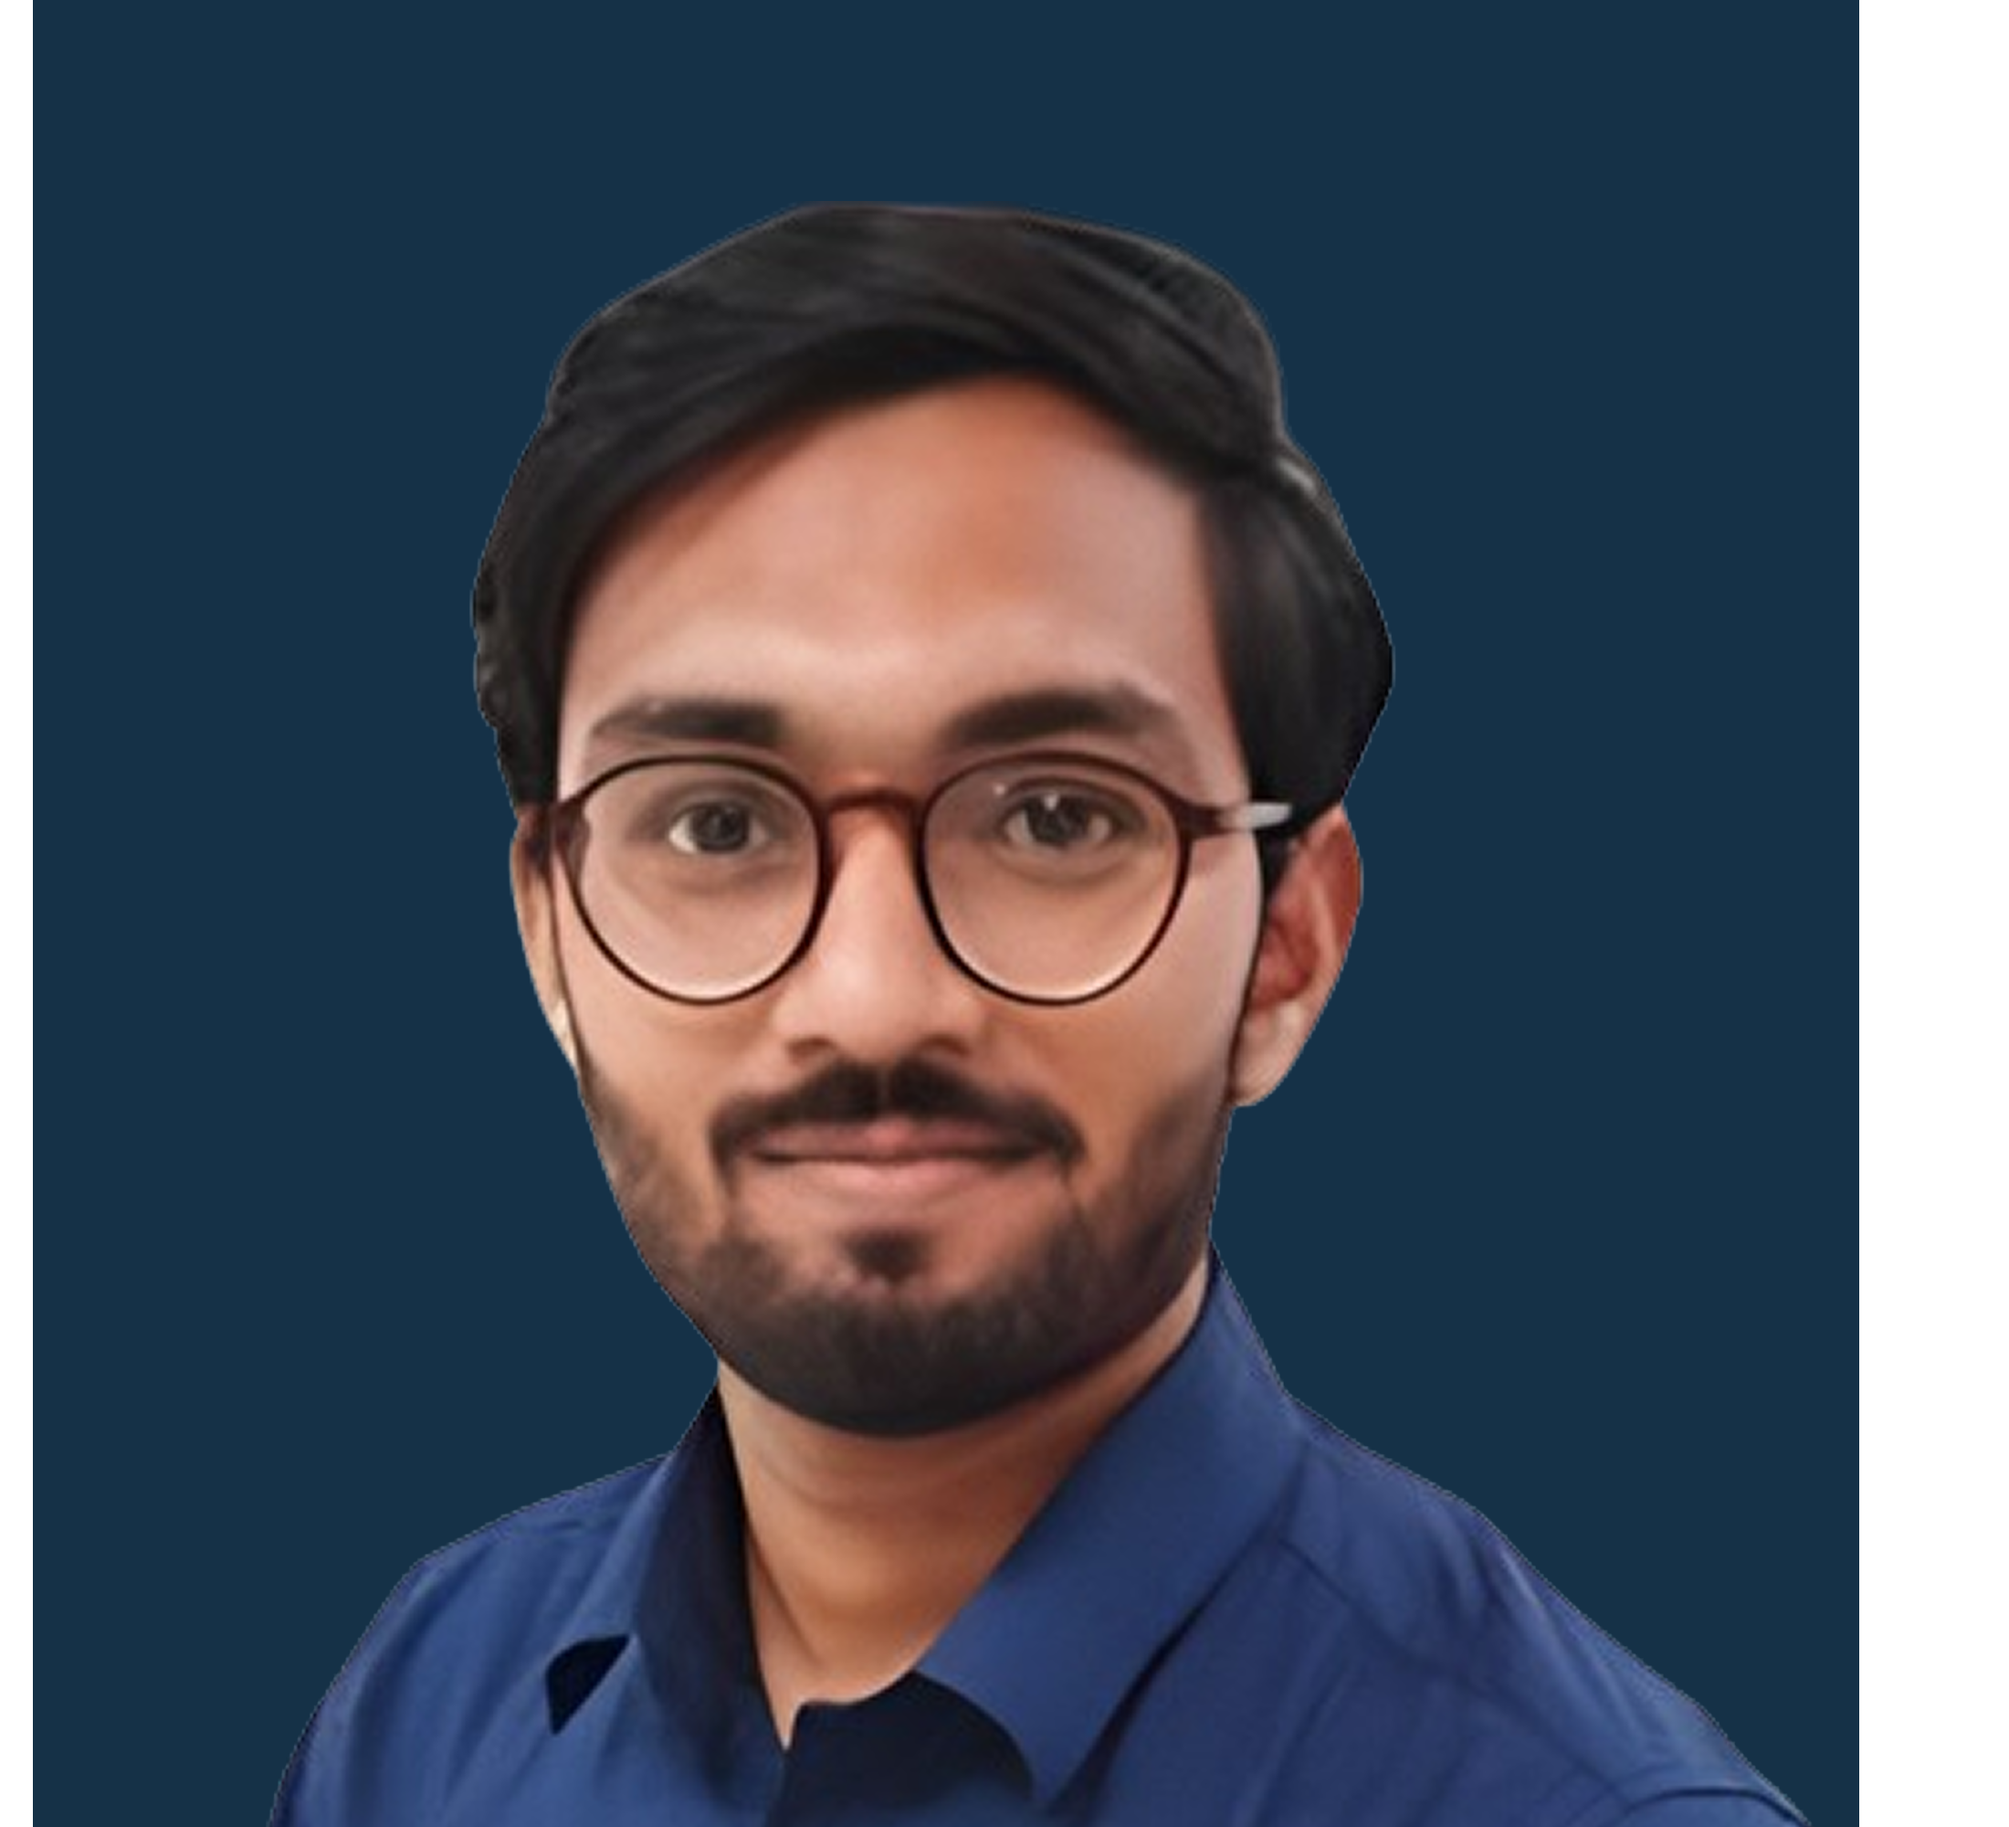
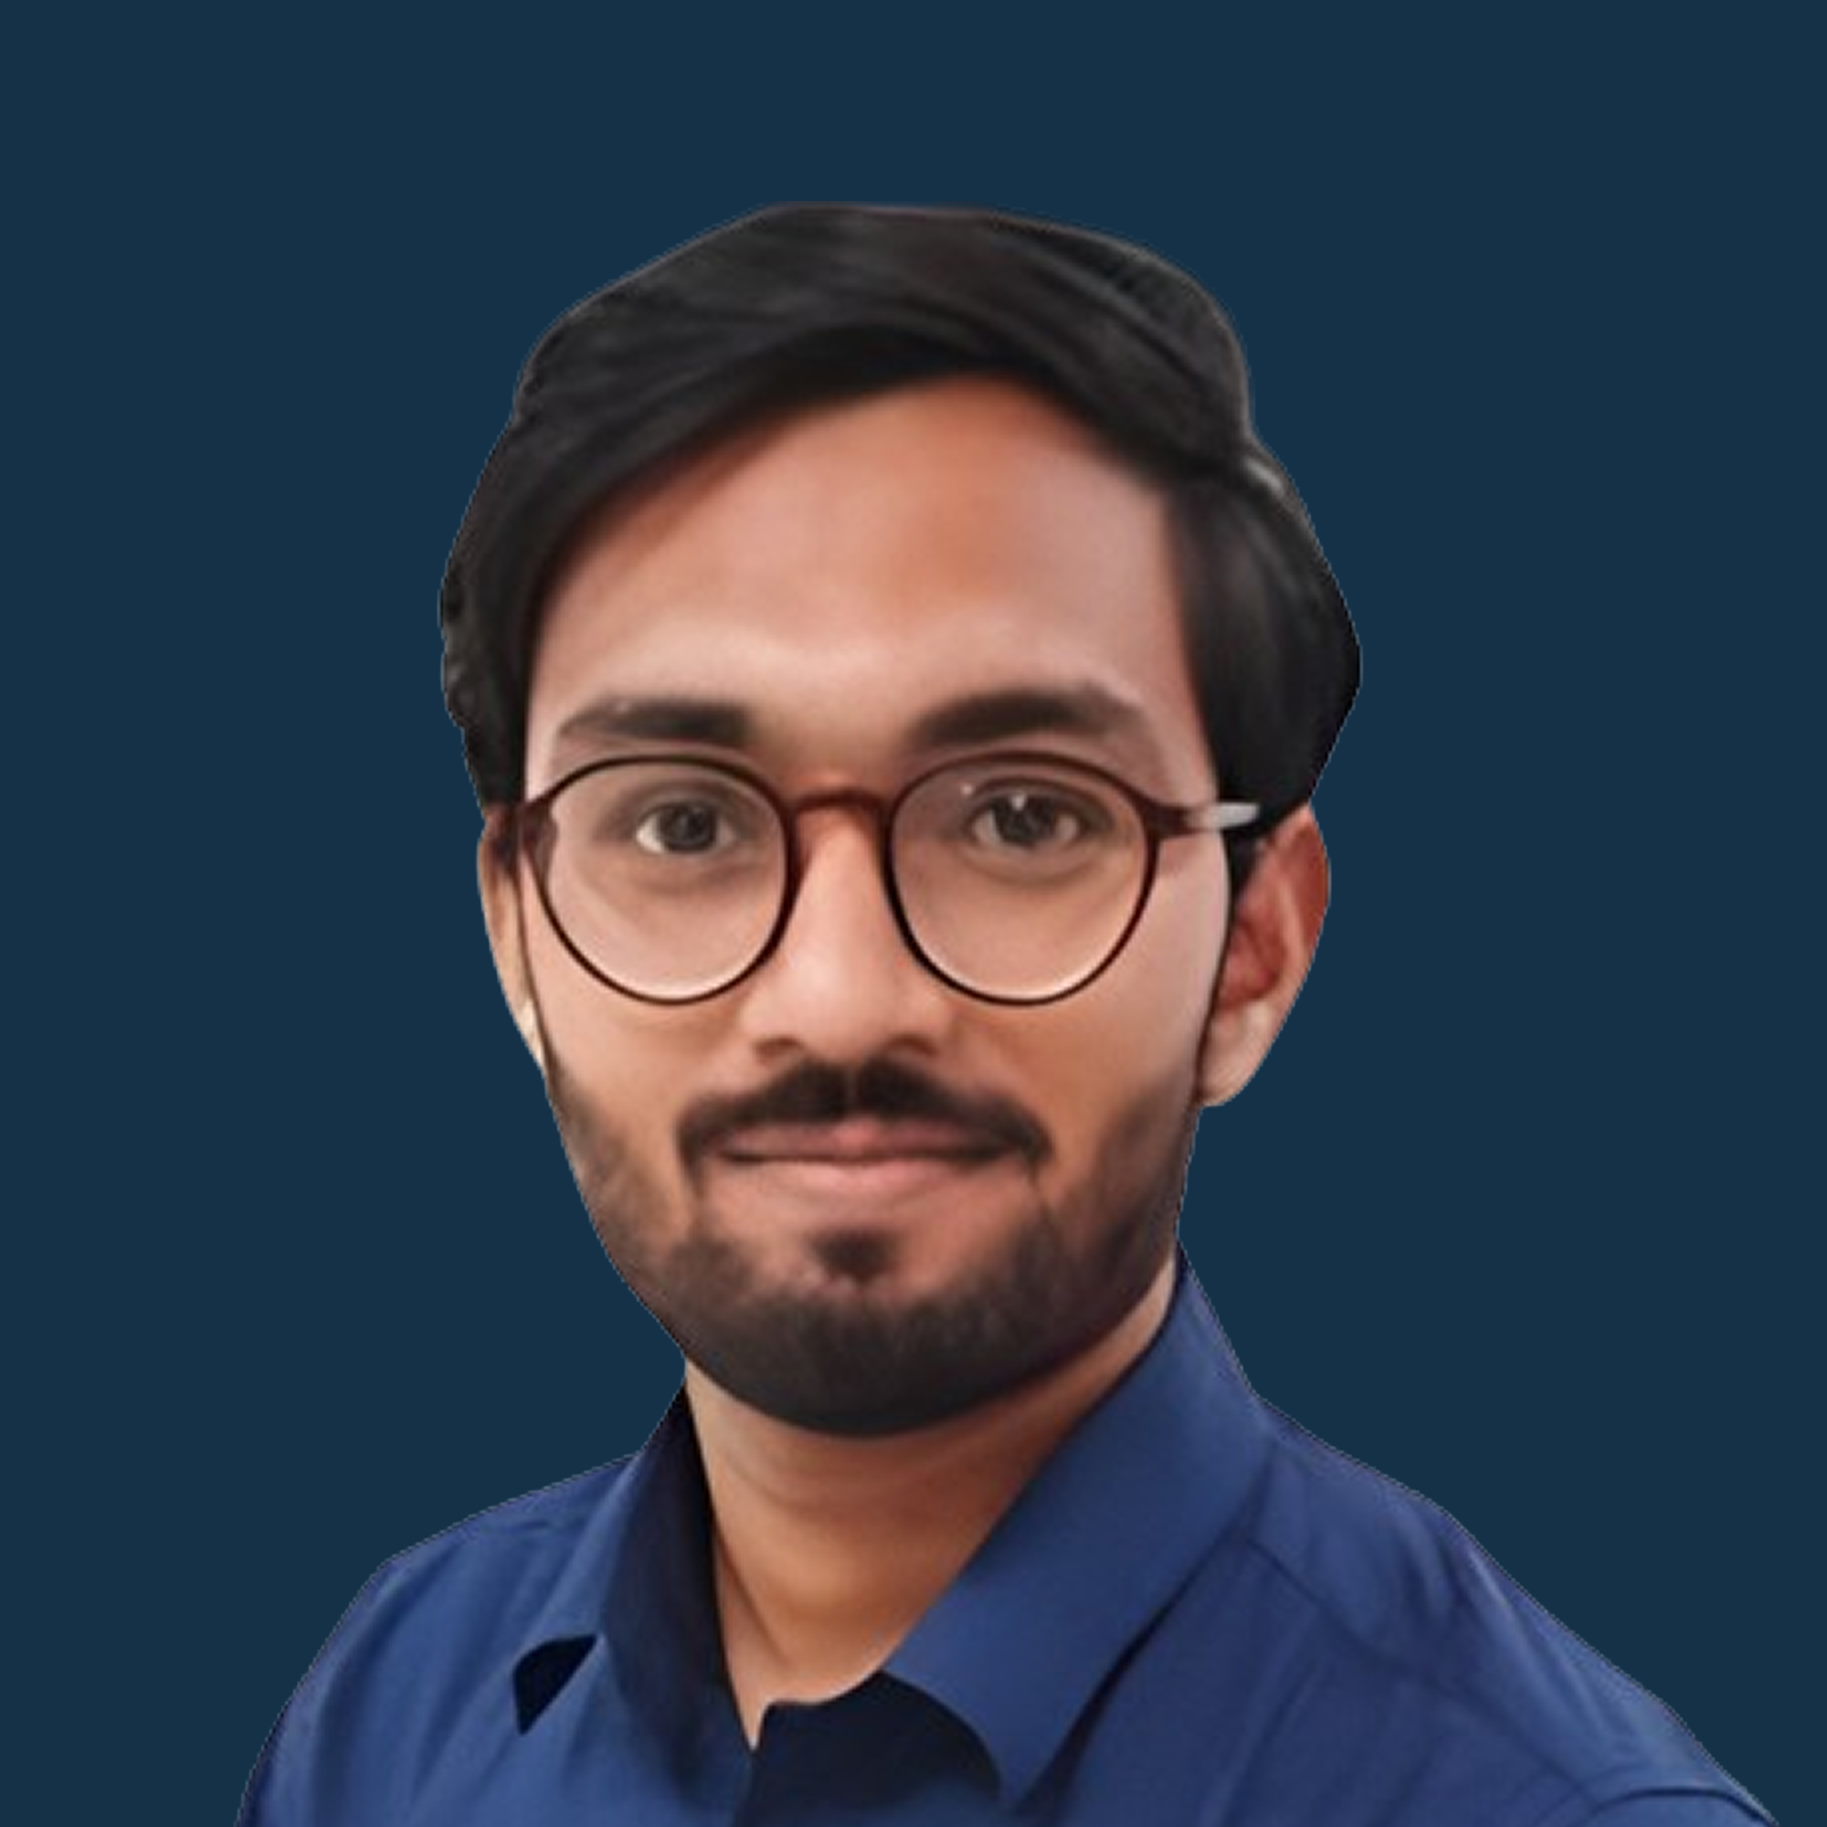
Changed Abid's photo

diff --git a/src/components/profile/profile-client.tsx b/src/components/profile/profile-client.tsx
@@ -9,20 +9,28 @@ import teamData from "@/data/team.json";
 interface PartnerItem {
   label: string;
   name: string;
+  logo: string;
+  link: string;
 }
 
 const PARTNERS: PartnerItem[] = [
   {
     label: "BROKER-DEALER",
     name: "Finalis",
+    logo: "/partners/finalis.png",
+    link: "https://www.finalis.com/about-us",
   },
   {
     label: "LEGAL REPRESENTATION",
-    name: "Hart Davidson Carson LLC",
+    name: "Hart David Carson LLP",
+    logo: "/partners/hart-david-carson.png",
+    link: "https://www.hartdavidcarson.com/",
   },
   {
     label: "ACCOUNTING TEAM",
     name: "Spark Accounting Services",
+    logo: "/partners/spark.png",
+    link: "https://www.sparkaccountingservices.com/about",
   },
 ];
 
@@ -115,7 +123,7 @@ function ProfileContent() {
                   isSeventh ? "md:col-start-2" : ""
                 }`}
               >
-                {/* Photo with hover effect and gold ring for Joey */}
+                {/* Photo with hover effect and gold ring */}
                 <div
                   onClick={() => handleSelectMember(item.slug)}
                   className="cursor-pointer"
@@ -129,12 +137,12 @@ function ProfileContent() {
                   aria-label={`View bio of ${item.title}`}
                 >
                   <div
-                    className={`relative w-32 h-32 sm:w-36 sm:h-36 md:w-40 md:h-40 rounded-full transition-all duration-300 group-hover:scale-105 ${
+                    className={`relative w-32 h-32 sm:w-36 sm:h-36 md:w-40 md:h-40 rounded-full transition-all duration-300 ease-out overflow-hidden ${
                       isJoey
-                        ? "p-1 border-[3px] border-[#c9a55a] shadow-[0_0_20px_rgba(201,165,90,0.35)]"
+                        ? "p-1 border-[3px] border-[#c9a55a] shadow-[0_0_20px_rgba(201,165,90,0.35)] group-hover:scale-105"
                         : isSelected
-                        ? "p-1 border-2 border-[#c9a55a]/70 shadow-lg"
-                        : "p-0.5 border border-white/10 group-hover:border-[#c9a55a]/60 shadow-md"
+                        ? "p-1 border-2 border-[#c9a55a] shadow-[0_0_15px_rgba(201,165,90,0.35)] group-hover:border-[3px] group-hover:border-[#dfbb72] group-hover:scale-105"
+                        : "p-0.5 border border-[#c9a55a]/75 shadow-md group-hover:border-[2.5px] group-hover:border-[#c9a55a] group-hover:shadow-[0_0_18px_rgba(201,165,90,0.45)] group-hover:scale-105"
                     }`}
                   >
                     <Image
@@ -142,7 +150,7 @@ function ProfileContent() {
                       alt={item.title}
                       width={160}
                       height={160}
-                      className="w-full h-full rounded-full object-cover bg-slate-900"
+                      className="w-full h-full rounded-full object-cover bg-slate-900 transition-transform duration-300 group-hover:scale-105"
                     />
                   </div>
                 </div>
@@ -196,7 +204,7 @@ function ProfileContent() {
                   className={`w-36 h-36 sm:w-44 sm:h-44 rounded-full overflow-hidden shadow-2xl ${
                     selectedMember.slug === "joey-bean"
                       ? "p-1 border-[3px] border-[#c9a55a] shadow-[0_0_25px_rgba(201,165,90,0.4)]"
-                      : "p-1 border border-white/20"
+                      : "p-1 border-2 border-[#c9a55a]/80 shadow-lg"
                   }`}
                 >
                   <Image
@@ -251,17 +259,41 @@ function ProfileContent() {
 
         <div className="grid grid-cols-1 md:grid-cols-3 gap-6">
           {PARTNERS.map((partner, idx) => (
-            <div
+            <a
               key={idx}
-              className="bg-[#161c24] border border-white/10 rounded-xl p-6 sm:p-7 shadow-lg hover:border-[#c9a55a]/40 transition-colors"
+              href={partner.link}
+              target="_blank"
+              rel="noopener noreferrer"
+              className="group flex flex-col justify-between bg-[#161c24] border border-white/10 rounded-xl p-6 hover:border-[#c9a55a]/60 hover:bg-[#1a222c] transition-all duration-300 shadow-lg hover:shadow-[0_10px_30px_rgba(0,0,0,0.5)] cursor-pointer"
             >
-              <p className="text-[#c9a55a] text-[11px] sm:text-xs font-semibold tracking-widest uppercase mb-2">
-                {partner.label}
-              </p>
-              <h3 className="text-lg sm:text-xl font-bold text-white">
-                {partner.name}
-              </h3>
-            </div>
+              <div>
+                <div className="flex items-center justify-between mb-3">
+                  <p className="text-[#c9a55a] text-[11px] sm:text-xs font-semibold tracking-widest uppercase">
+                    {partner.label}
+                  </p>
+                  <span className="text-slate-400 group-hover:text-[#c9a55a] group-hover:translate-x-0.5 group-hover:-translate-y-0.5 transition-all text-xs font-bold">
+                    ↗
+                  </span>
+                </div>
+
+                {/* White Logo Container Box so logos display big & clear with true brand colors */}
+                <div className="bg-white rounded-lg p-4 my-2 h-28 sm:h-32 flex items-center justify-center transition-transform duration-300 group-hover:scale-[1.02] shadow-inner">
+                  <Image
+                    src={partner.logo}
+                    alt={partner.name}
+                    width={240}
+                    height={90}
+                    className="max-h-20 sm:max-h-24 w-auto max-w-[85%] object-contain"
+                  />
+                </div>
+              </div>
+
+              <div className="pt-2">
+                <h3 className="text-lg sm:text-xl font-bold text-white group-hover:text-[#c9a55a] transition-colors">
+                  {partner.name}
+                </h3>
+              </div>
+            </a>
           ))}
         </div>
       </section>

diff --git a/src/components/home/lane-sections.tsx b/src/components/home/lane-sections.tsx
@@ -59,7 +59,7 @@ const LaneSections = () => {
           {/* Centered logo above heading (~64px) */}
           <div data-aos="fade-down" className="mb-5 inline-flex p-2.5 rounded-2xl bg-white/[0.04] border border-white/10 shadow-lg">
             <Image
-              src="/wsa-logo.png"
+              src="/wsa-logo-vector.svg"
               alt="White Swan Advisors Logo"
               width={64}
               height={64}

diff --git a/src/components/home/header-section.tsx b/src/components/home/header-section.tsx
@@ -81,7 +81,7 @@ const HeaderSection = ({ src }: { src: string }) => {
           {/* Logo large in top right (about 160px) */}
           <div className="w-full flex justify-center lg:justify-end pb-2">
             <Image
-              src="/wsa-logo.png"
+              src="/wsa-logo-vector.svg"
               alt="White Swan Advisors Logo"
               width={160}
               height={160}

diff --git a/src/components/home/trackrecord.tsx b/src/components/home/trackrecord.tsx
@@ -53,7 +53,7 @@ const TrackRecord = () => {
           {/* Logo in top right corner of white section (about 96px) */}
           <div data-aos="fade-left" className="self-end sm:self-center shrink-0">
             <Image
-              src="/wsa-logo.png"
+              src="/wsa-logo-vector.svg"
               alt="White Swan Advisors Logo"
               width={96}
               height={96}

diff --git a/src/components/navbar.tsx b/src/components/navbar.tsx
@@ -26,7 +26,7 @@ const Navbar = () => {
       <div className="max-w-screen-2xl flex items-center justify-between mx-auto">
         <Link href="/" className="flex items-center gap-3">
           <Image
-            src="/wsa-logo.png"
+            src="/wsa-logo-vector.svg"
             alt="White Swan Advisors"
             width={52}
             height={52}

diff --git a/src/components/footer.tsx b/src/components/footer.tsx
@@ -12,7 +12,7 @@ const Footer = () => {
         <div className="flex flex-col gap-3 items-center md:items-start">
           <div className="flex items-center gap-3">
             <Image
-              src="/wsa-logo.png"
+              src="/wsa-logo-vector.svg"
               alt="White Swan Advisors"
               width={44}
               height={44}
